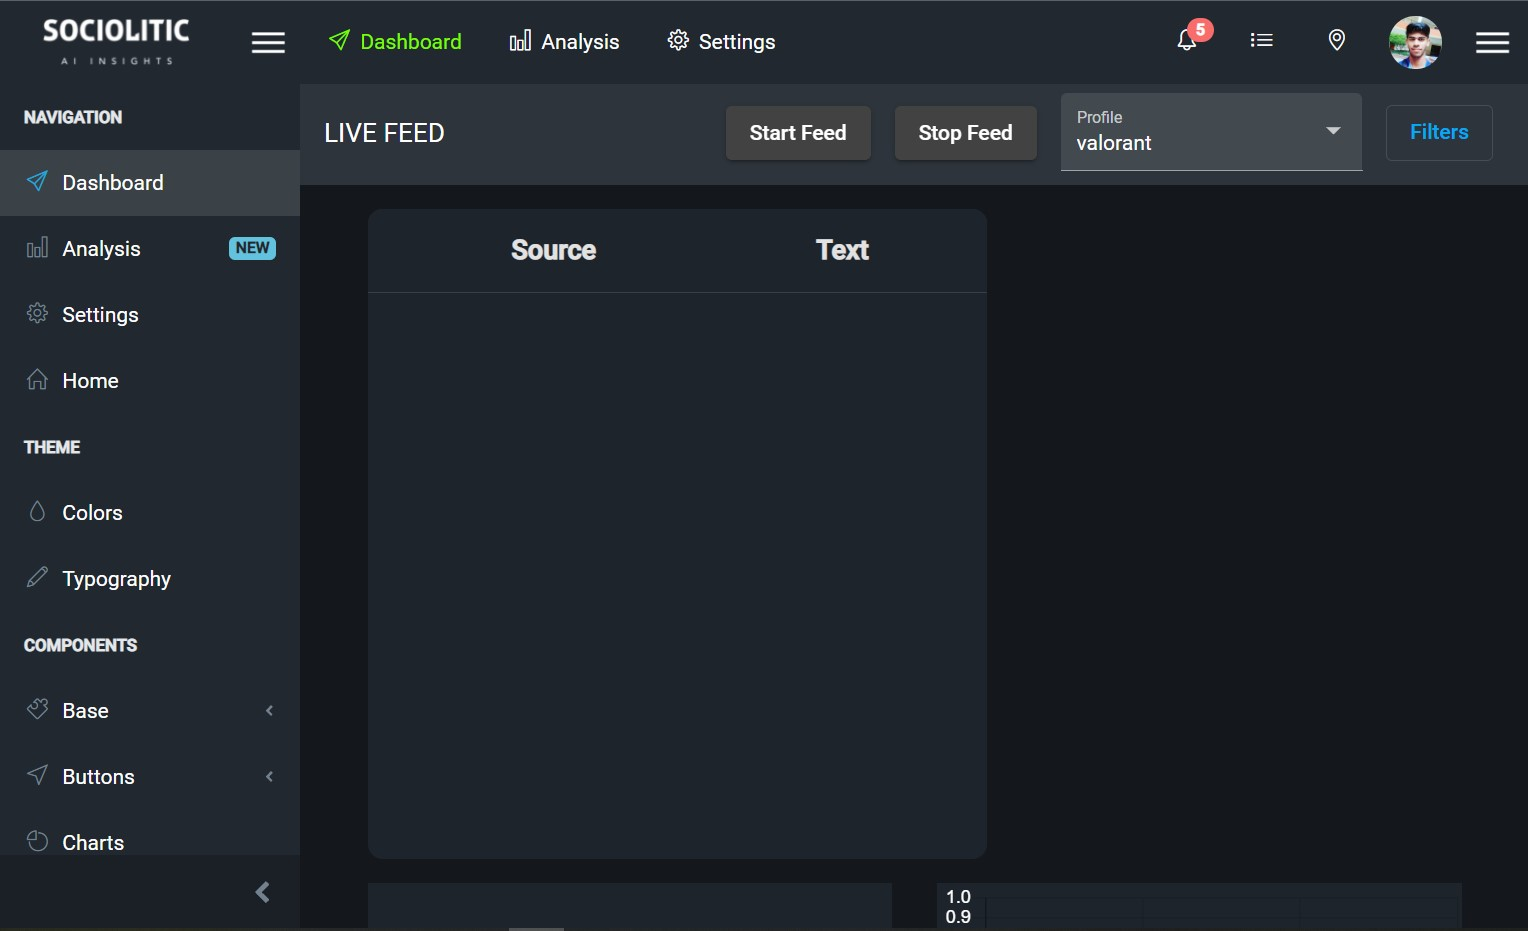
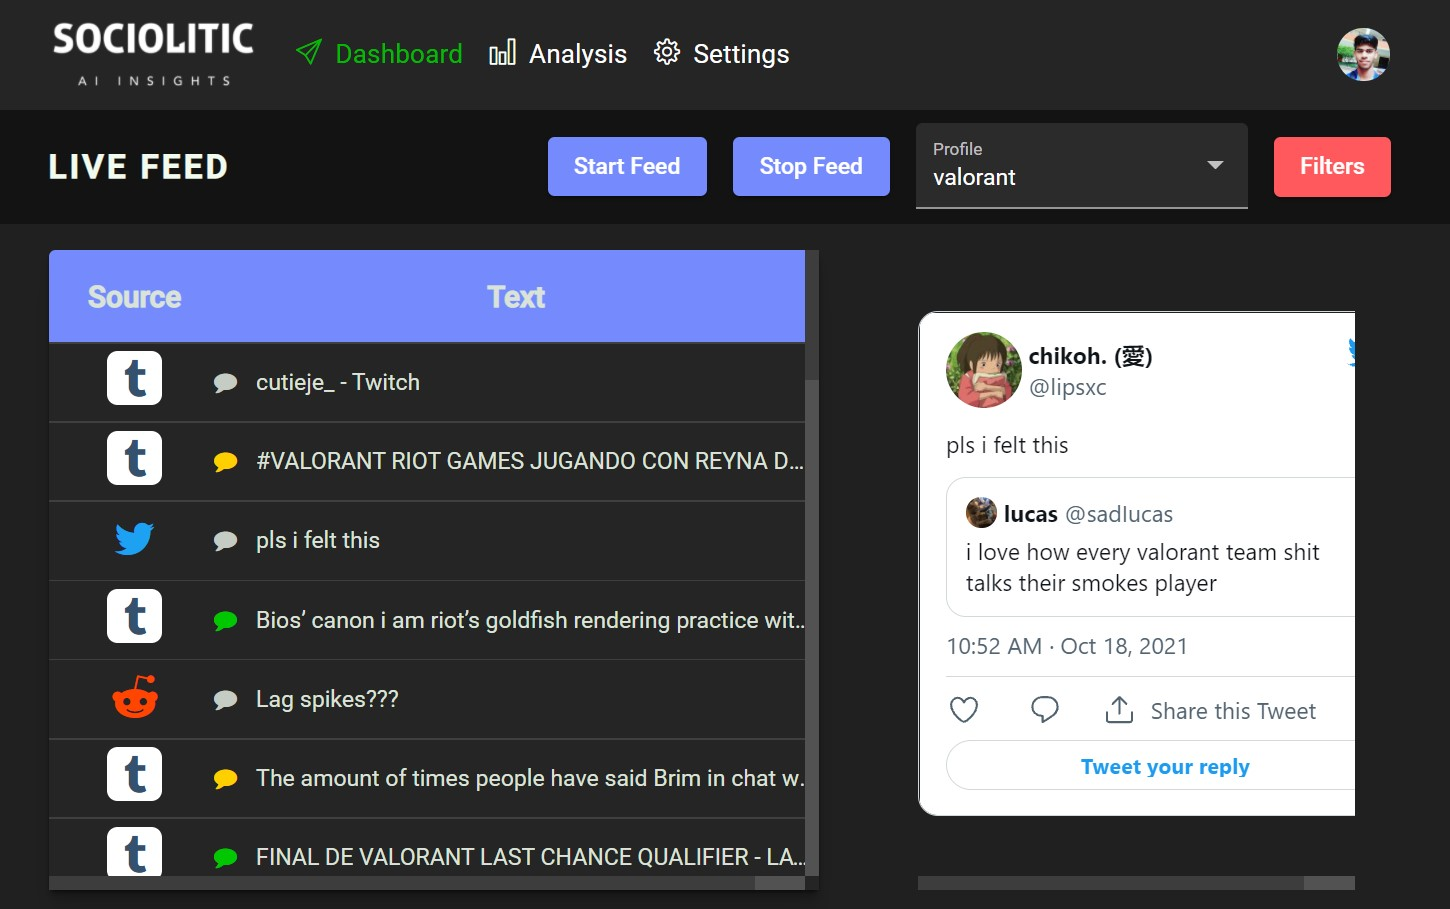
color changes

diff --git a/src/scss/darkvariables.scss b/src/scss/darkvariables.scss
@@ -34,26 +34,58 @@ $primary-dark-pallete:(
 );
 
 $primary-pallete:(
-    50 : #fce7e9,
-    100 : #f8c4c8,
-    200 : #f39ca3,
-    300 : #ee747e,
-    400 : #ea5762,
-    500 : #e63946,
-    600 : #e3333f,
-    700 : #df2c37,
-    800 : #db242f,
-    900 : #d51720,
+    50 : #eef1ff,
+    100 : #d6dcfe,
+    200 : #bac5fe,
+    300 : #9eaefe,
+    400 : #8a9cfd,
+    500 : #758bfd,
+    600 : #6d83fd,
+    700 : #6278fc,
+    800 : #586efc,
+    900 : #455bfc,
     A100 : #ffffff,
-    A200 : #ffd4d5,
-    A400 : #ffa1a4,
-    A700 : #ff878b,
+    A200 : #ffffff,
+    A400 : #e9ebff,
+    A700 : #cfd5ff,
     contrast: (
         50 : #000000,
         100 : #000000,
         200 : #000000,
         300 : #000000,
-        400 : #000000,
+        400 : #2b2a2a,
+        500 : #ffffff,
+        600 : #ffffff,
+        700 : #ffffff,
+        800 : #ffffff,
+        900 : #ffffff,
+        A100 : #000000,
+        A200 : #000000,
+        A400 : #000000,
+        A700 : #000000,
+    )
+);
+$accent-pallete:(
+    50 : #ffebec,
+    100 : #ffcdcf,
+    200 : #ffacaf,
+    300 : #ff8b8e,
+    400 : #ff7276,
+    500 : #ff595e,
+    600 : #ff5156,
+    700 : #ff484c,
+    800 : #ff3e42,
+    900 : #ff2e31,
+    A100 : #ffffff,
+    A200 : #ffffff,
+    A400 : #ffdada,
+    A700 : #ffc0c1,
+    contrast: (
+        50 : #000000,
+        100 : #000000,
+        200 : #000000,
+        300 : #000000,
+        400 : #ebebeb,
         500 : #ffffff,
         600 : #ffffff,
         700 : #ffffff,
@@ -66,38 +98,7 @@ $primary-pallete:(
     )
 );
 
-$accent-pallete:(
-    50 : #e0f5f7,
-    100 : #b3e7ea,
-    200 : #80d7dc,
-    300 : #4dc7ce,
-    400 : #26bbc4,
-    500 : #00afb9,
-    600 : #00a8b2,
-    700 : #009faa,
-    800 : #0096a2,
-    900 : #008693,
-    A100 : #bef8ff,
-    A200 : #8bf3ff,
-    A400 : #58eeff,
-    A700 : #3febff,
-    contrast: (
-        50 : #000000,
-        100 : #000000,
-        200 : #000000,
-        300 : #000000,
-        400 : #000000,
-        500 : #ffffff,
-        600 : #ffffff,
-        700 : #ffffff,
-        800 : #ffffff,
-        900 : #ffffff,
-        A100 : #000000,
-        A200 : #000000,
-        A400 : #000000,
-        A700 : #000000,
-    )
-);
+
 $green-card-1:#dbe7e4;
 $green-card-2:#c5dedd;
 $blue-card-1:#d6e2e9;
@@ -112,13 +113,13 @@ $gray-card-2:#e9ecef;
 $gray-card-3:#dee2e6;
 $gray-card-4:#ced4da;
 
-$dark-bg: #1d3557;
-$dark-nav: #13243b;//#293241;
-$dark-nav-secondary: #3f4244;
+$dark-bg: #202020;
+$dark-nav: #252525;//#293241;
+$dark-nav-secondary: #131313;
 
-$dark-card-1:#1c3150;
-$dark-card-2:#1e385c;
-$dark-card-3:#e63946;
+$dark-card-1:#252525;
+$dark-card-2:#272727;
+$dark-card-3:map-get($primary-pallete, 500 );
 $card-hover-1: $orange-card-4;
 $card-hover-2:$blue-card-3;
 
@@ -167,3 +168,10 @@ $logo: "assets/img/brand/white-text.png";
 
 //palletes
 
+@mixin card-shadow {
+    box-shadow: 0 1px 1px rgba(0,0,0,0.25), 
+              0 2px 2px rgba(0,0,0,0.20), 
+              0 4px 4px rgba(0,0,0,0.15), 
+              0 8px 8px rgba(0,0,0,0.10),
+              0 16px 16px rgba(0,0,0,0.05);
+}

diff --git a/src/app/views/analysis-report/analysis-report.component.ts b/src/app/views/analysis-report/analysis-report.component.ts
@@ -11,6 +11,7 @@ import { BrandRegistrationService } from '../../shared/services/brand-registrati
   templateUrl: './analysis-report.component.html',
   styleUrls: ['./analysis-report.component.scss']
 })
+
 export class AnalysisReportComponent implements OnInit {
   constructor(private dataService: ChartDataService, private brandReg: BrandRegistrationService) {}
   loading:boolean=true;
@@ -21,6 +22,10 @@ export class AnalysisReportComponent implements OnInit {
   sentimentPieChart:Chart=null;
   sentimentBarChart:Chart=null;
   statisticsData:StatisticsData=null;
+
+  
+
+
   ngOnInit(): void {
     this.user = JSON.parse(localStorage.getItem('user'));
     console.log(this.user);
@@ -166,8 +171,9 @@ export class AnalysisReportComponent implements OnInit {
     this.loading=true;
     this.dataService.getChartData(this.selectedProfile).subscribe(
       (statData)=> {
-        this.statisticsData=statData;
-        console.log(this.statisticsData);
+        
+        //this.statisticsData=statData;
+        console.log(statData);
         // this.createMentionChart();
         // this.createSentimentPieChart();
         this.loading=false;
@@ -184,4 +190,5 @@ export class AnalysisReportComponent implements OnInit {
   changeProfile(){
     this.fetchGraphData();
   }
+
 }

diff --git a/src/app/views/dashboard/live-feed/live-feed.component.ts b/src/app/views/dashboard/live-feed/live-feed.component.ts
@@ -73,7 +73,7 @@ export class LiveFeedComponent implements OnInit, OnDestroy {
   profiles: object = {};
   selectedProfile: string = "";
   user: User;
-
+  showTweet:boolean=false;
   //statistics variables
 
   NerDisplayedColumns: string[] = ["phrase", "tag", "source"];
@@ -189,6 +189,7 @@ export class LiveFeedComponent implements OnInit, OnDestroy {
     this.stopFeed();
   }
   showMentionDetails(mention: feedObject) {
+    this.showTweet=false;
     this.tweetContainer.nativeElement.innerHTML='';
     this.cardObject = mention;
     let url = "";
@@ -200,7 +201,10 @@ export class LiveFeedComponent implements OnInit, OnDestroy {
       url = "https://twitter.com/x/status/" + mention.id;
       
       this.selectedUrl = this.sanitizer.bypassSecurityTrustResourceUrl(url);
-      (<any>window).twttr.widgets.createTweet(mention.id,this.tweetContainer.nativeElement);
+      (<any>window).twttr.widgets.createTweet(mention.id,this.tweetContainer.nativeElement).then(
+        res => {},
+        err => this.showTweet=true
+      );
     }
   }
 

diff --git a/src/app/views/dashboard/live-feed/live-feed.component.html b/src/app/views/dashboard/live-feed/live-feed.component.html
@@ -85,7 +85,7 @@
         <div class='tweet-box d-flex justify-content-center align-items-center'#tweetContainer></div>
       </div>
 
-      <mat-card  *ngIf=" showCard && cardObject.source !== 'twitter'" class="mention-card">
+      <mat-card  *ngIf=" showCard && (cardObject.source !== 'twitter' ||showTweet)" class="mention-card">
         <i (click)="showCard = false" class="fa close-icon fa-close fa-lg"></i>
         <mat-card-header>
           <span mat-card-avatar class='d-flex justify-content-center align-items-center'>
@@ -135,7 +135,7 @@
     <div class='col-md-6'>
       <div class="chart-container">
         <div class="stat-info-cards">
-          <span class='h1'>{{_feedsvc.totalCount}}</span>
+          <span class='h2'>{{_feedsvc.totalCount}}</span>
           <div class='h5'>Total mentions</div>
           
         </div>

diff --git a/src/app/shared/models/graphs.model.ts b/src/app/shared/models/graphs.model.ts
@@ -6,25 +6,20 @@ export interface LineChartData {
 }
 export interface StatisticsData {
     tag: string;
-    years: ApiSourceData[];
-    months: ApiSourceData[];
-    days: ApiSourceData[];  
-    hours: ApiSourceData[];
-    mins: ApiSourceData[];
+    years: ApiSourceData;
+    months: ApiSourceData;
+    days: ApiSourceData;  
+    hours: ApiSourceData;
+    mins: ApiSourceData;
   }
 
 export interface ApiSourceData{
-    start: Date;
-    end: Date;
-    total: Number;
-    positive: Number;
-    negative: Number;
-    neutral: Number;
+    aggregate:TimeSeriesData,
     sources:Object;
 }  
 export interface TimeSeriesData{
-    hourly: number[];
-    daily: number[];
-    monthly: number[];
-    yearly: number[];   
+    total: Number[];
+    positive: Number[];
+    negative: Number[];
+    neutral: Number[];   
 }

diff --git a/src/app/views/dashboard/live-feed/live-feed.component.scss b/src/app/views/dashboard/live-feed/live-feed.component.scss
@@ -42,7 +42,7 @@
     overflow-y: auto;
     border-radius: 4px;
     background-color:$dark-card-1;
-
+    @include card-shadow;
 }
 .mention-card {
     border-radius: 4px;
@@ -52,6 +52,7 @@
     overflow-y: auto;
     color: $text-primary-0;
     animation: mention-card-anim 500ms ease-out backwards;
+    @include card-shadow;
     mat-card-header {
         color: $text-primary-1
     }
@@ -100,7 +101,7 @@
 .tweet-container{
     position: relative;
     border-radius: 4px;
-    height:100%;
+    height:70vh;
     &-anim{
         position:absolute;
         top:0;
@@ -137,10 +138,10 @@
     color: $text-primary-2;
 }
 .chart-container{
-    background-color: #222;
+    background-color: $dark-card-1;
     height: 100%;
     border-radius: 4px;
-    
+    @include card-shadow;
 }
 .spam-icon{
     color: $warn;

diff --git a/src/scss/custom.scss b/src/scss/custom.scss
@@ -125,7 +125,7 @@ body {
     background-color: $dark-nav;
 }
 .dark-nav-secondary{
-    background-color:$dark-card-1;
+    background-color:$dark-nav-secondary;
 }
 .dark-card-1{
     background-color: $dark-card-1;
